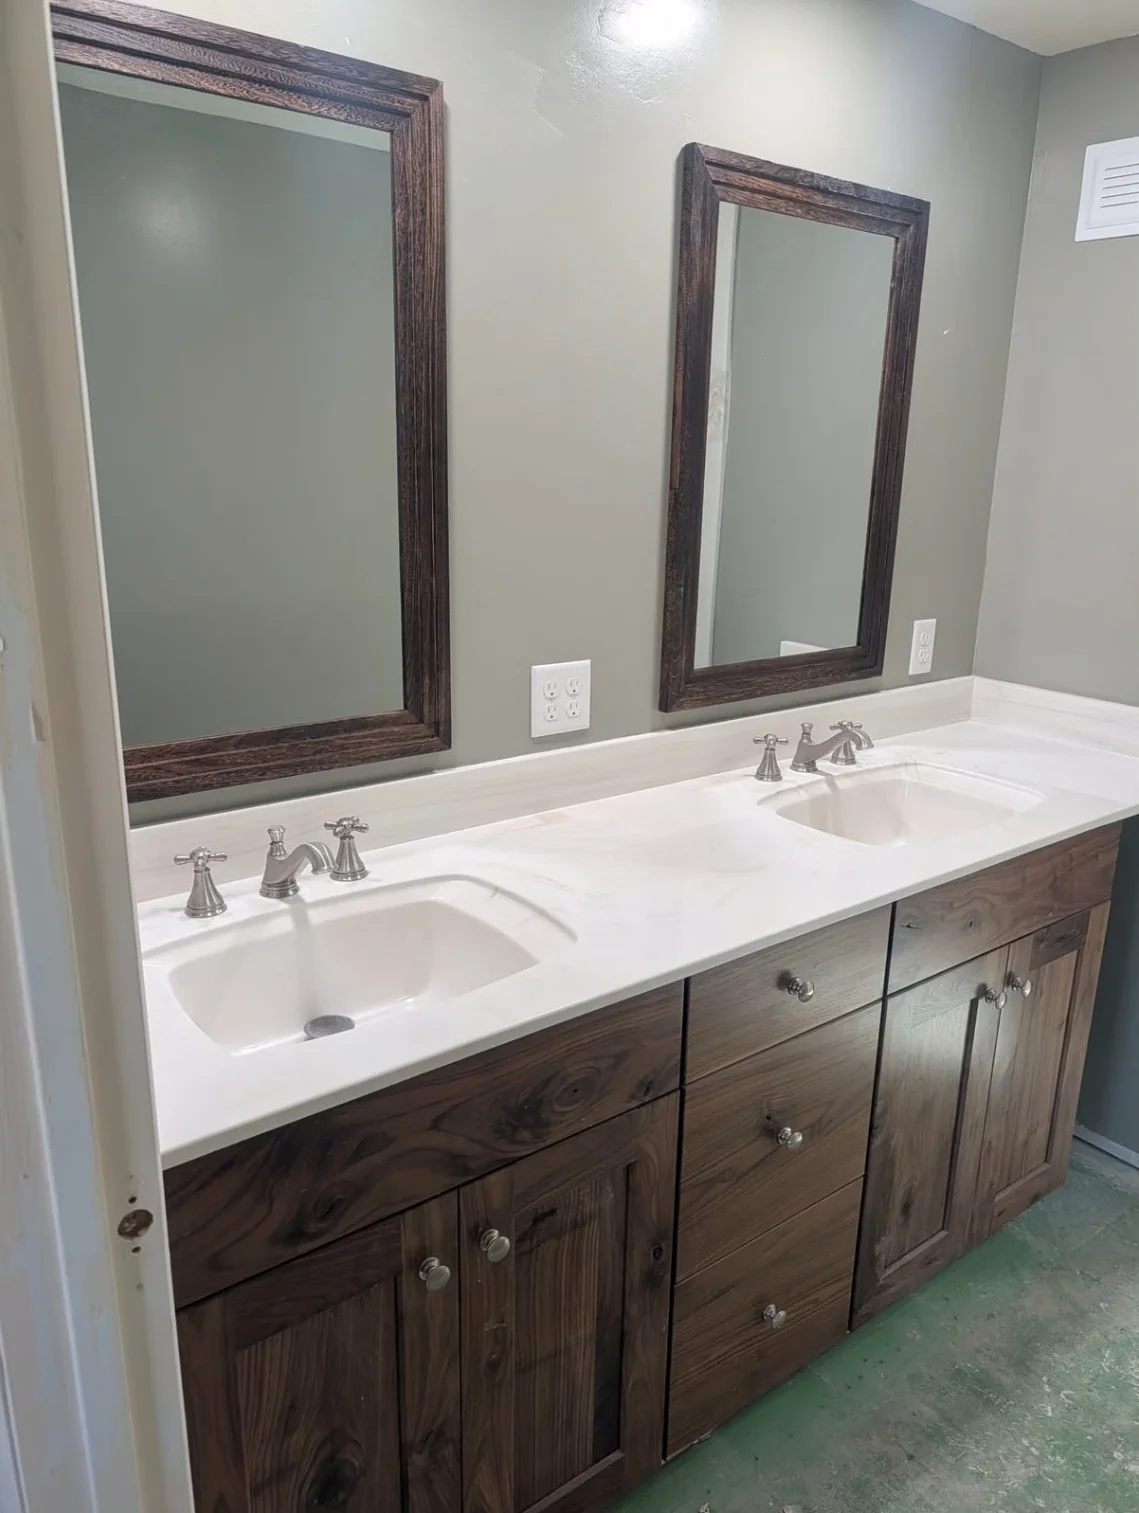
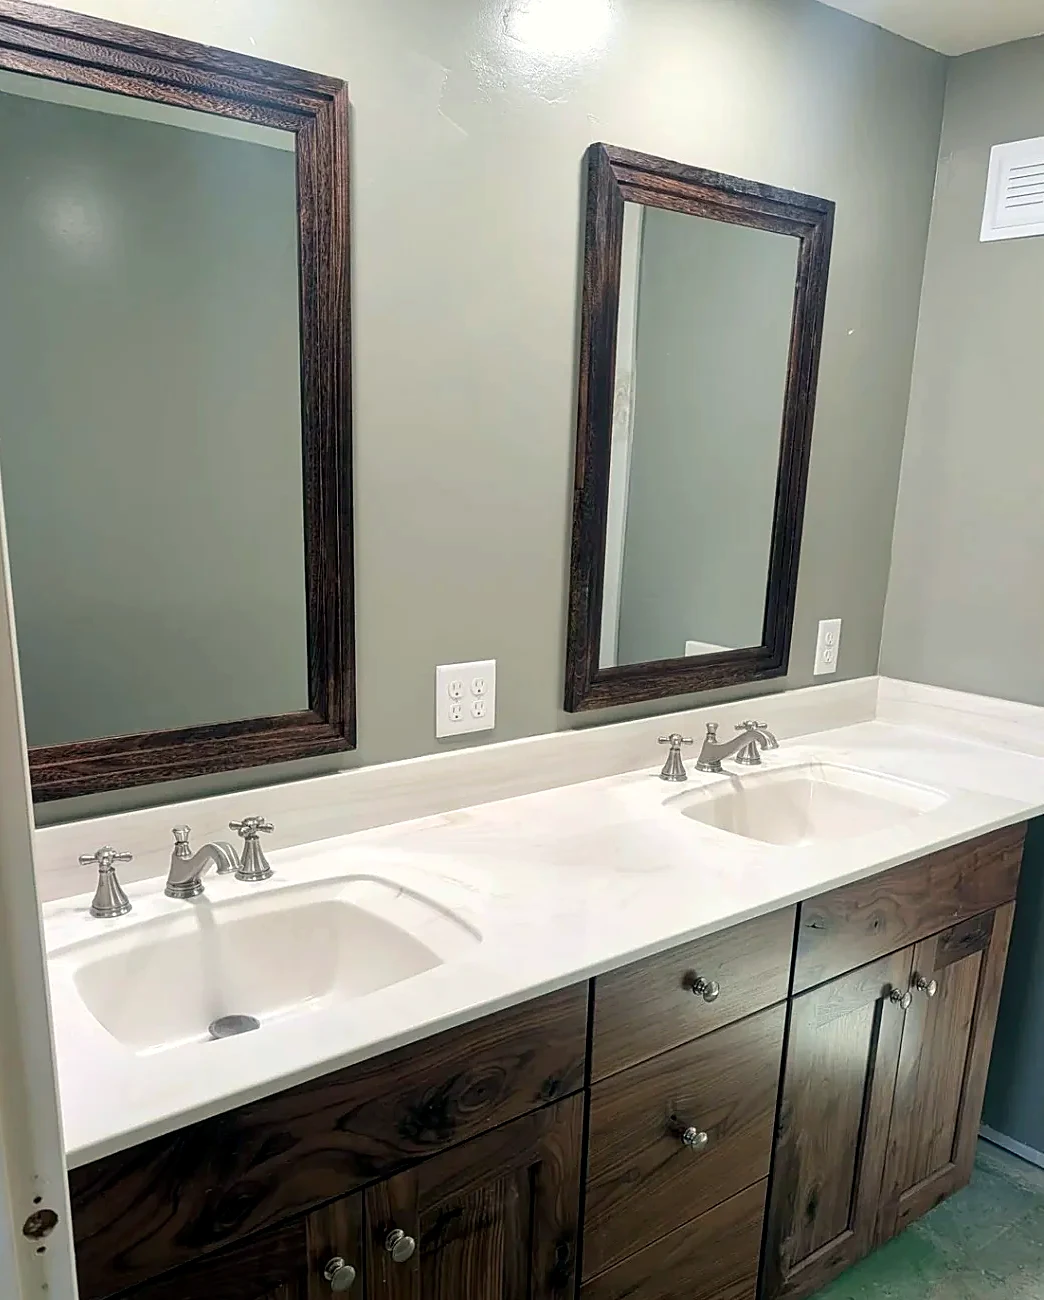
Touch up the bathroom vanity photo: tighter crop, brighter, sharper
Claude-Session: https://claude.ai/code/session_01PywKQsrRhGBw6XJaFse8mM

diff --git a/src/pages/addition-remodel.html b/src/pages/addition-remodel.html
@@ -29,7 +29,7 @@ og: 2024/07/03144454/bathroom-remodel.webp
     </div>
   </div>
   <div class="split">
-    <div class="split-media"><img src="{{img:remodel/double-vanity-bathroom.webp}}" alt="Remodeled bathroom with a walnut double vanity, white countertop and framed mirrors" loading="lazy" width="1139" height="1513"></div>
+    <div class="split-media"><img src="{{img:remodel/double-vanity-bathroom.webp}}" alt="Remodeled bathroom with a walnut double vanity, white countertop and framed mirrors" loading="lazy" width="1044" height="1300"></div>
     <div class="split-text">
       <h2><a href="/bathroom-remodeling-in-cedar-city-ut/" style="color:inherit;text-decoration:none">Bathroom Remodeling in Cedar City</a></h2>
       <p>Update your home with luxurious, modern bathroom remodeling in Cedar City, Utah, designed for ultimate comfort. From installing custom tile showers and stylish fixtures to optimizing storage, J&amp;A Construction transforms your existing space into a spa like retreat built with high quality, durable materials and exceptional attention to detail.</p>
